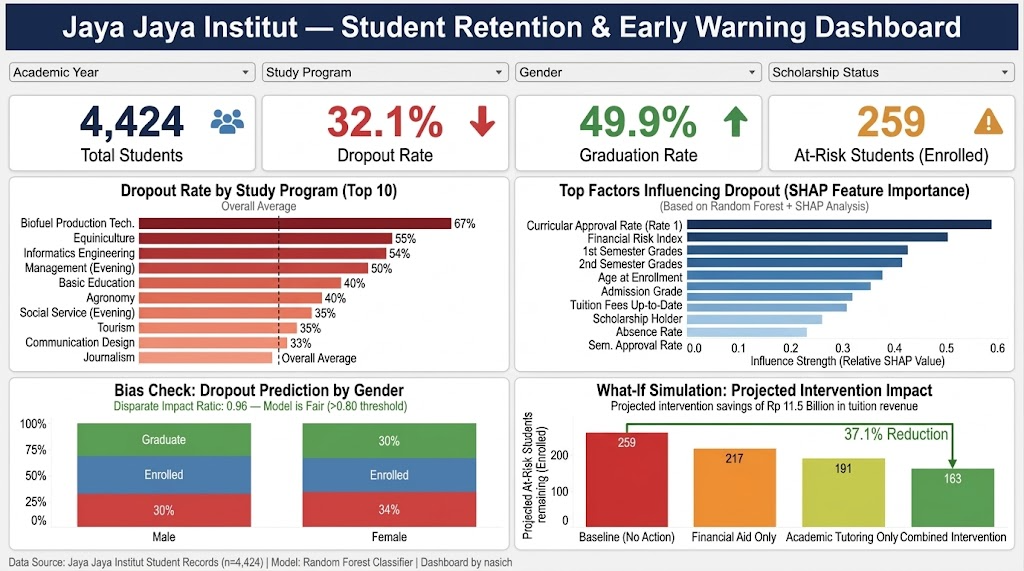
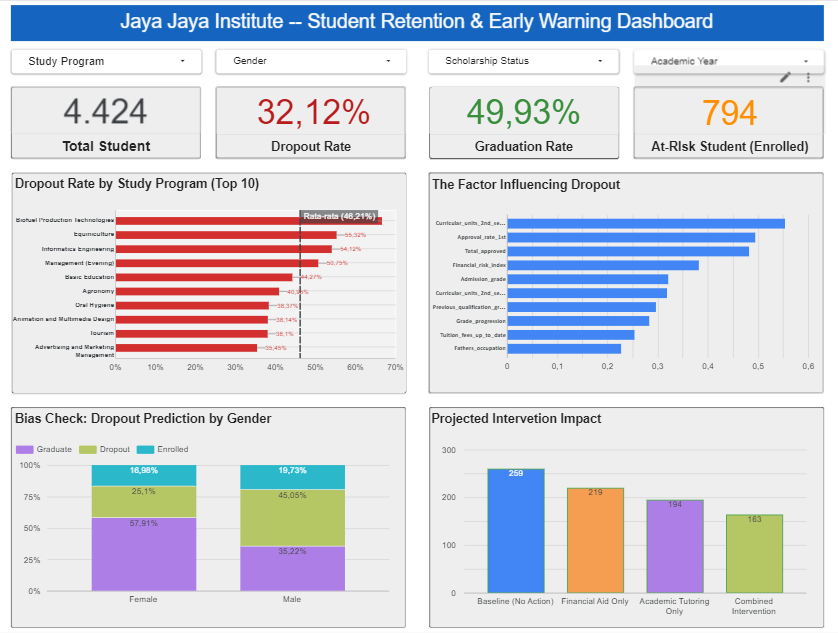
docs: update Looker Studio dashboard link and screenshot

diff --git a/README.md b/README.md
@@ -77,7 +77,7 @@ Proyek ini kompatibel dengan Python 3.10+ (atau Python 3.12). Ikuti langkah-lang
 
 Dashboard analitik bisnis untuk memantau performa dan retensi mahasiswa Jaya Jaya Institut dibangun menggunakan **Looker Studio** dan terhubung langsung ke data hasil analisis proyek ini.
 
-- **Looker Studio Dashboard Link**: [Jaya Jaya Institut - Student Performance Dashboard](https://lookerstudio.google.com/reporting/PLACEHOLDER-LINK)
+- **Looker Studio Dashboard Link**: [Jaya Jaya Institut - Student Performance Dashboard](https://datastudio.google.com/reporting/08504851-cd41-49b5-a9c0-3376df7ad174)
 - **Screenshot Dashboard**: Tersedia pada repositori sebagai `nasich_dicoding-dashboard.png`
 - **Sumber Data Dashboard**: `df_clean_mapped.csv` (data mahasiswa termap), `shap_data.csv` (feature importance), `what_if_data.csv` (simulasi intervensi)
 - **Tinjauan Dashboard**: Dashboard menyajikan KPI utama (Total Mahasiswa, Dropout Rate, Graduation Rate), analisis faktor pendorong dropout berbasis SHAP, pemeriksaan keadilan model (*Bias Checking*), dan visualisasi dampak simulasi kebijakan intervensi. Seluruh analisis preskriptif juga tersedia pada aplikasi prototype Streamlit (`app.py`).
